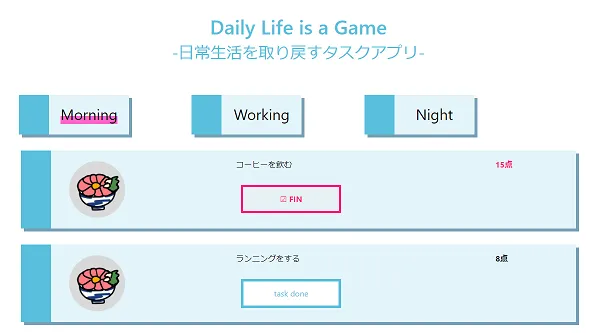
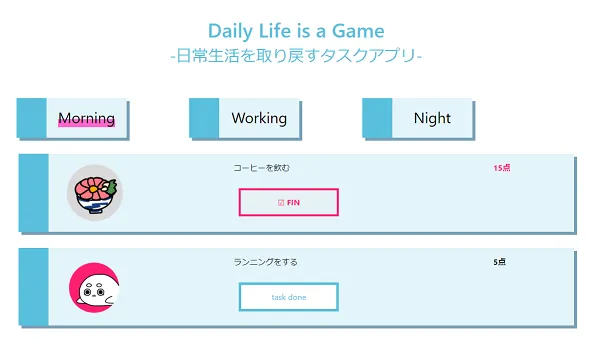
fix bug

diff --git a/docs/index.html b/docs/index.html
@@ -8,6 +8,9 @@
     <link rel="apple-touch-icon" sizes="180x180" href=".png">
     <link rel="stylesheet" href="./style.css"></link>
     <meta name=”viewport” content=”width=device-width,initial-scale=1.0″>
+    <script src="https://code.jquery.com/jquery-3.3.1.slim.min.js" integrity="sha384-q8i/X+965DzO0rT7abK41JStQIAqVgRVzpbzo5smXKp4YfRvH+8abtTE1Pi6jizo" crossorigin="anonymous"></script>
+    <script src="https://cdnjs.cloudflare.com/ajax/libs/popper.js/1.14.7/umd/popper.min.js" integrity="sha384-UO2eT0CpHqdSJQ6hJty5KVphtPhzWj9WO1clHTMGa3JDZwrnQq4sF86dIHNDz0W1" crossorigin="anonymous"></script>
+    <script src="https://stackpath.bootstrapcdn.com/bootstrap/4.3.1/js/bootstrap.min.js" integrity="sha384-JjSmVgyd0p3pXB1rRibZUAYoIIy6OrQ6VrjIEaFf/nJGzIxFDsf4x0xIM+B07jRM" crossorigin="anonymous"></script>
     <!-- twitter test -->
     <meta name="twitter:card" content="summary">
     <meta name="twitter:site" content="">
@@ -16,13 +19,13 @@
     <meta property="og:description" content="">
     <meta property="og:site_name" content="">
     <meta property="og:locale" content="ja_JP" />
-    <meta property="og:image" content="">
+    <meta property="og:image" content="./img/1.webp">
   </head>
 
   <body>
   <!-- ヘッダー -->
     <div id="header">
-      head
+      <h1>Daily Life is a Game <br><small>-日常生活を取り戻すタスクアプリ-</small></h1>
     </div>
   <!-- ここまでヘッダー -->
 

diff --git a/login/main/templates/layout.html b/login/main/templates/layout.html
@@ -7,7 +7,7 @@
         <meta name="viewport" content="width=device-width, initial-scale=1.0">
         <link rel="stylesheet" href="https://stackpath.bootstrapcdn.com/bootstrap/4.3.1/css/bootstrap.min.css" integrity="sha384-ggOyR0iXCbMQv3Xipma34MD+dH/1fQ784/j6cY/iJTQUOhcWr7x9JvoRxT2MZw1T" crossorigin="anonymous">
         <link href = "static/style/style.css" rel = "stylesheet" type = "text/css">
-        <link rel="icon" type="image/png" href="./img/favicon.png">
+        <link rel="icon" type="image/png" href="/static/img/favicon.png">
 
         <script src="https://code.jquery.com/jquery-3.3.1.slim.min.js" integrity="sha384-q8i/X+965DzO0rT7abK41JStQIAqVgRVzpbzo5smXKp4YfRvH+8abtTE1Pi6jizo" crossorigin="anonymous"></script>
         <script src="https://cdnjs.cloudflare.com/ajax/libs/popper.js/1.14.7/umd/popper.min.js" integrity="sha384-UO2eT0CpHqdSJQ6hJty5KVphtPhzWj9WO1clHTMGa3JDZwrnQq4sF86dIHNDz0W1" crossorigin="anonymous"></script>

diff --git a/login/main/views.py b/login/main/views.py
@@ -568,7 +568,7 @@ def task_done():
     for i in range(len(ids)):
         if user_id[i] == session["user_id"] and date[i] == dt_now:
             jadge += 1
-            cur.execute("update monthly_data set point_m=?, point_d=?, point_n=? where id=?",(point_per_m, point_per_d, point_per_n, i))
+            cur.execute("update monthly_data set point_m=?, point_d=?, point_n=? where id=?",(point_per_m, point_per_d, point_per_n, i+1))
 
     if jadge == 0:
         cur.execute(sql_insert_many, (int(new_id), session.get("user_id"), point_per_m, point_per_d, point_per_n, str(dt_now)))
